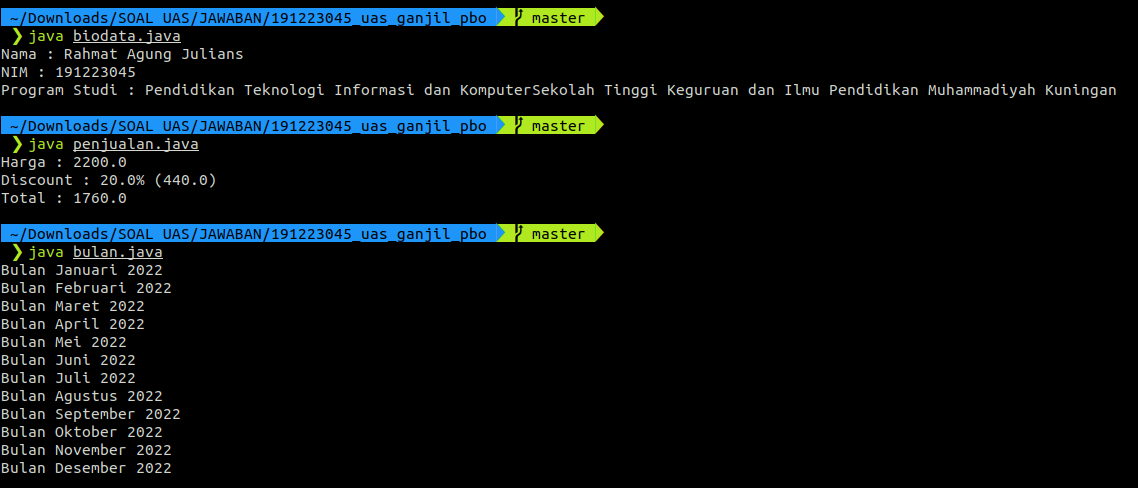
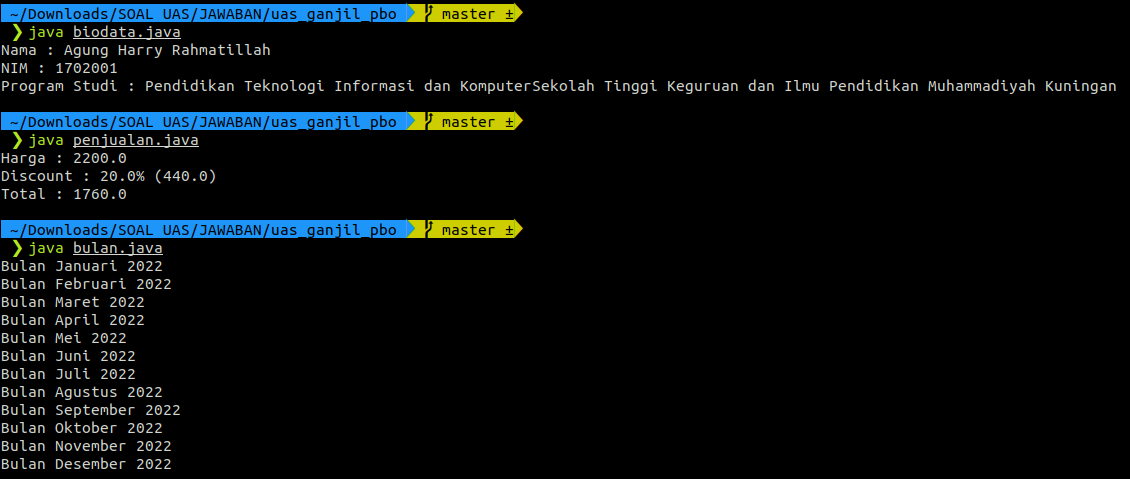
update variable data

Changed region(s): [[0.0, 0.4384, 0.5265, 0.9937], [0.0, 0.0, 0.9912, 0.2046], [0.0, 0.2338, 0.5265, 0.4384]]

diff --git a/biodata.java b/biodata.java
@@ -1,7 +1,7 @@
 class biodata {
   public static void main(String[] args) {
-    String nama = "Rahmat Agung Julians";
-    String nim = "191223045";
+    String nama = "Agung Harry Rahmatillah";
+    String nim = "1702001";
     String prodi = "Pendidikan Teknologi Informasi dan Komputer";
     String kampus = "Sekolah Tinggi Keguruan dan Ilmu Pendidikan Muhammadiyah Kuningan";
 
